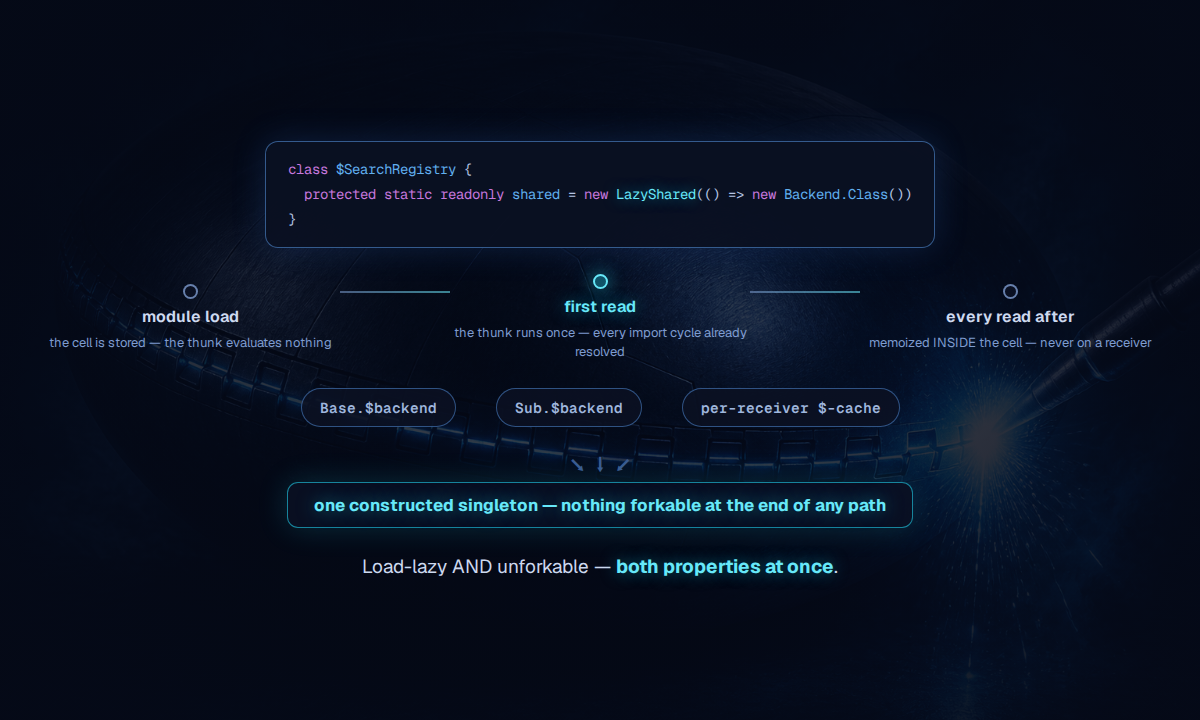
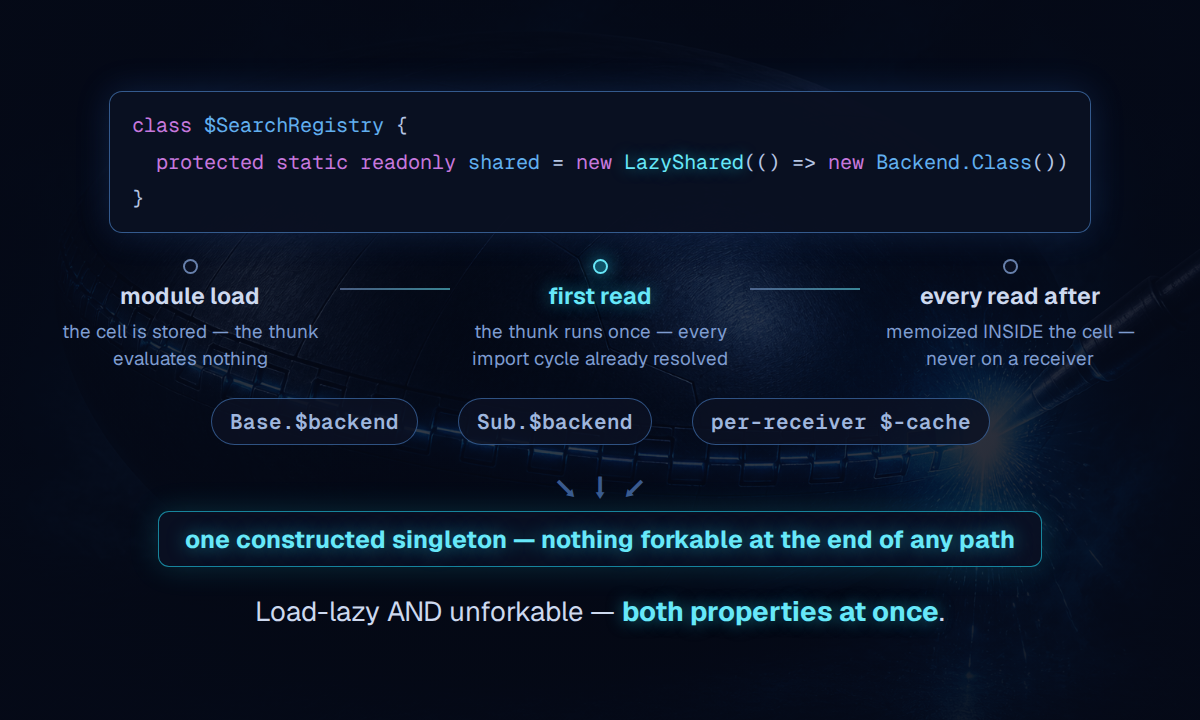
diagrams: all text ~1.45x larger — readable at article width
The six hybrid diagrams were authored at 1200px but display at ~688px
in articles, rendering 13px source text near 7.5px. Every font scaled
up ~1.45x, circular-imports' module boxes widened to fit the larger
code; backdrops carry less, text carries more. All six re-rendered
and re-verified.

diff --git a/.claude/skills/article-art/diagrams/circular-imports-dissolved-diagram-1.html b/.claude/skills/article-art/diagrams/circular-imports-dissolved-diagram-1.html
@@ -35,25 +35,25 @@
     position: absolute; inset: 0;
     display: flex; flex-direction: column;
     align-items: center; justify-content: center;
-    gap: 30px; padding: 40px 70px;
+    gap: 30px; padding: 40px 40px;
   }
 
-  .cycle { display: flex; align-items: center; gap: 26px; }
+  .cycle { display: flex; align-items: center; gap: 18px; }
   .module {
-    width: 330px; border-radius: 13px;
+    width: 472px; border-radius: 13px;
     border: 1px solid rgba(96, 165, 250, 0.5);
     background: rgba(10, 16, 34, 0.9);
     box-shadow: 0 0 34px rgba(59, 130, 246, 0.18);
     overflow: hidden;
   }
   .module .bar {
-    padding: 9px 16px; font: 600 14px 'Geist Mono', monospace; color: #9fb6dd;
+    padding: 9px 16px; font: 600 20.3px 'Geist Mono', monospace; color: #9fb6dd;
     background: rgba(30, 41, 70, 0.85);
     border-bottom: 1px solid rgba(96, 165, 250, 0.28);
   }
   .module .code {
     padding: 13px 16px 15px;
-    font: 13.5px/1.75 'Geist Mono', 'DejaVu Sans Mono', monospace;
+    font: 19.57px/1.75 'Geist Mono', 'DejaVu Sans Mono', monospace;
     color: #b6c6e4; white-space: pre;
   }
   .module .code .kw { color: #c678dd; }
@@ -62,12 +62,12 @@
 
   .arrows {
     display: flex; flex-direction: column; gap: 15px; align-items: center;
-    font: 600 15px 'Geist Mono', monospace;
+    font: 600 21.75px 'Geist Mono', monospace;
   }
   .arrow { display: flex; flex-direction: column; align-items: center; gap: 3px; }
-  .arrow .line { font-size: 24px; letter-spacing: -1px; }
+  .arrow .line { font-size: 34.8px; letter-spacing: -1px; }
   .arrow.import .line { color: #7e9cd0; }
-  .arrow.import .tag { color: #7e9cd0; font-size: 12.5px; }
+  .arrow.import .tag { color: #7e9cd0; font-size: 18.12px; }
 
   .timeline {
     display: flex; align-items: center; gap: 0;
@@ -86,16 +86,16 @@
     border-color: #67e8f9; background: rgba(34, 211, 238, 0.35);
     box-shadow: 0 0 18px rgba(34, 211, 238, 0.7);
   }
-  .phase .label { font-size: 16px; font-weight: 650; color: #cdd9ef; }
+  .phase .label { font-size: 23.2px; font-weight: 650; color: #cdd9ef; }
   .phase.hot .label { color: #67e8f9; text-shadow: 0 0 16px rgba(34, 211, 238, 0.5); }
-  .phase .note { font-size: 13px; color: #7e9cd0; line-height: 1.45; }
+  .phase .note { font-size: 18.85px; color: #7e9cd0; line-height: 1.45; }
   .rail {
     width: 120px; height: 2px; margin-bottom: 52px;
     background: linear-gradient(90deg, rgba(126, 156, 208, 0.55), rgba(103, 232, 249, 0.55));
   }
 
   .verdict {
-    font-size: 19px; color: #cdd9ef;
+    font-size: 27.55px; color: #cdd9ef;
   }
   .verdict b { color: #67e8f9; font-weight: 700; text-shadow: 0 0 16px rgba(34, 211, 238, 0.5); }
 </style>

diff --git a/.claude/skills/article-art/diagrams/bulletproof-class-modules-diagram-1.html b/.claude/skills/article-art/diagrams/bulletproof-class-modules-diagram-1.html
@@ -43,7 +43,7 @@
     background: rgba(10, 16, 34, 0.92);
     box-shadow: 0 0 34px rgba(59, 130, 246, 0.18);
     padding: 15px 22px;
-    font: 14px/1.8 'Geist Mono', 'DejaVu Sans Mono', monospace;
+    font: 20.3px/1.8 'Geist Mono', 'DejaVu Sans Mono', monospace;
     color: #b6c6e4; white-space: pre;
   }
   .cell .kw { color: #c678dd; }
@@ -54,17 +54,17 @@
   .reader {
     padding: 9px 18px; border-radius: 999px;
     border: 1px solid rgba(96, 165, 250, 0.45); color: #9fb6dd;
-    font: 600 14.5px 'Geist Mono', monospace;
+    font: 600 21.02px 'Geist Mono', monospace;
     background: rgba(10, 16, 34, 0.85);
   }
   .converge {
     display: flex; flex-direction: column; align-items: center; gap: 5px;
   }
-  .converge .down { color: #3b5a8f; font-size: 24px; line-height: 1; }
+  .converge .down { color: #3b5a8f; font-size: 34.8px; line-height: 1; }
   .one {
     padding: 11px 26px; border-radius: 11px;
     border: 1px solid rgba(34, 211, 238, 0.6);
-    color: #67e8f9; font: 700 17px 'Geist', sans-serif;
+    color: #67e8f9; font: 700 24.65px 'Geist', sans-serif;
     text-shadow: 0 0 18px rgba(34, 211, 238, 0.55);
     box-shadow: 0 0 30px rgba(34, 211, 238, 0.18);
     background: rgba(10, 16, 34, 0.9);
@@ -83,14 +83,14 @@
     border-color: #67e8f9; background: rgba(34, 211, 238, 0.35);
     box-shadow: 0 0 18px rgba(34, 211, 238, 0.7);
   }
-  .phase .label { font-size: 16px; font-weight: 650; color: #cdd9ef; }
+  .phase .label { font-size: 23.2px; font-weight: 650; color: #cdd9ef; }
   .phase.hot .label { color: #67e8f9; text-shadow: 0 0 16px rgba(34, 211, 238, 0.5); }
-  .phase .note { font-size: 13px; color: #7e9cd0; line-height: 1.45; }
+  .phase .note { font-size: 18.85px; color: #7e9cd0; line-height: 1.45; }
   .rail {
     width: 110px; height: 2px; margin-bottom: 52px;
     background: linear-gradient(90deg, rgba(126, 156, 208, 0.55), rgba(103, 232, 249, 0.55));
   }
-  .verdict { font-size: 19px; color: #cdd9ef; }
+  .verdict { font-size: 27.55px; color: #cdd9ef; }
   .verdict b { color: #67e8f9; font-weight: 700; text-shadow: 0 0 16px rgba(34, 211, 238, 0.5); }
 </style>
 </head>

diff --git a/.claude/skills/article-art/diagrams/what-javascript-becomes-diagram-1.html b/.claude/skills/article-art/diagrams/what-javascript-becomes-diagram-1.html
@@ -45,15 +45,15 @@
     padding: 13px 16px 14px;
   }
   .source .who {
-    font: 650 14.5px 'Geist Mono', monospace; color: #9fb6dd;
+    font: 650 21.02px 'Geist Mono', monospace; color: #9fb6dd;
     margin-bottom: 5px;
   }
-  .source .what { font-size: 13.5px; color: #b6c6e4; line-height: 1.5; }
-  .source .how { font-size: 12px; color: #7e9cd0; margin-top: 6px; font-style: italic; }
+  .source .what { font-size: 19.57px; color: #b6c6e4; line-height: 1.5; }
+  .source .how { font-size: 17.4px; color: #7e9cd0; margin-top: 6px; font-style: italic; }
   .converge {
     display: flex; flex-direction: column; align-items: center; gap: 4px;
   }
-  .converge .arrows { color: #3b5a8f; font-size: 24px; letter-spacing: 26px; padding-left: 26px; line-height: 1; }
+  .converge .arrows { color: #3b5a8f; font-size: 34.8px; letter-spacing: 26px; padding-left: 26px; line-height: 1; }
   .runtime {
     width: 760px; border-radius: 14px;
     border: 1px solid rgba(34, 211, 238, 0.55);
@@ -62,17 +62,17 @@
     padding: 16px 26px 18px; text-align: center;
   }
   .runtime .title {
-    font: 700 18px 'Geist', sans-serif; color: #67e8f9;
+    font: 700 26.1px 'Geist', sans-serif; color: #67e8f9;
     text-shadow: 0 0 16px rgba(34, 211, 238, 0.5); margin-bottom: 8px;
   }
   .runtime .chips { display: flex; gap: 10px; justify-content: center; flex-wrap: wrap; }
   .runtime .chip {
     padding: 7px 13px; border-radius: 999px;
     border: 1px solid rgba(34, 211, 238, 0.4); color: #8fe9f7;
-    font: 600 13px 'Geist Mono', monospace;
+    font: 600 18.85px 'Geist Mono', monospace;
     background: rgba(14, 24, 48, 0.8);
   }
-  .verdict { font-size: 19px; color: #cdd9ef; text-align: center; }
+  .verdict { font-size: 27.55px; color: #cdd9ef; text-align: center; }
   .verdict b { color: #67e8f9; font-weight: 700; text-shadow: 0 0 16px rgba(34, 211, 238, 0.5); }
 </style>
 </head>

diff --git a/.claude/skills/article-art/diagrams/reactivity-is-an-allocator-diagram-1.html b/.claude/skills/article-art/diagrams/reactivity-is-an-allocator-diagram-1.html
@@ -43,9 +43,9 @@
     padding: 16px 24px 18px;
   }
   .tier .title {
-    font: 700 16px 'Geist', sans-serif; margin-bottom: 4px;
+    font: 700 23.2px 'Geist', sans-serif; margin-bottom: 4px;
   }
-  .tier .sub { font-size: 13.5px; color: #7e9cd0; margin-bottom: 13px; }
+  .tier .sub { font-size: 19.57px; color: #7e9cd0; margin-bottom: 13px; }
   .tier.graph {
     border: 1px solid rgba(34, 211, 238, 0.55);
     box-shadow: 0 0 34px rgba(34, 211, 238, 0.14);
@@ -56,7 +56,7 @@
   .chips { display: flex; gap: 12px; flex-wrap: wrap; }
   .chip {
     padding: 8px 15px; border-radius: 999px;
-    font: 600 13.5px 'Geist Mono', monospace;
+    font: 600 19.57px 'Geist Mono', monospace;
   }
   .graph .chip {
     border: 1px solid rgba(34, 211, 238, 0.45); color: #8fe9f7;
@@ -68,12 +68,12 @@
   }
   .threads {
     display: flex; gap: 200px; align-items: center;
-    font: 600 13.5px 'Geist Mono', monospace;
+    font: 600 19.57px 'Geist Mono', monospace;
   }
   .thread { display: flex; flex-direction: column; align-items: center; gap: 1px; }
-  .thread .arrow { color: #67e8f9; font-size: 22px; line-height: 1; text-shadow: 0 0 12px rgba(34,211,238,0.6); }
+  .thread .arrow { color: #67e8f9; font-size: 31.9px; line-height: 1; text-shadow: 0 0 12px rgba(34,211,238,0.6); }
   .thread .tag { color: #7e9cd0; }
-  .verdict { font-size: 19px; color: #cdd9ef; text-align: center; }
+  .verdict { font-size: 27.55px; color: #cdd9ef; text-align: center; }
   .verdict b { color: #67e8f9; font-weight: 700; text-shadow: 0 0 16px rgba(34, 211, 238, 0.5); }
 </style>
 </head>

diff --git a/.claude/skills/article-art/diagrams/module-level-state-diagram-1.html b/.claude/skills/article-art/diagrams/module-level-state-diagram-1.html
@@ -49,7 +49,7 @@
     box-shadow: 0 0 34px rgba(34, 211, 238, 0.14);
   }
   .container .head {
-    padding: 11px 20px; font: 650 16px 'Geist Mono', monospace;
+    padding: 11px 20px; font: 650 23.2px 'Geist Mono', monospace;
     border-bottom: 1px solid rgba(96, 165, 250, 0.25);
     background: rgba(30, 41, 70, 0.7);
   }
@@ -57,14 +57,14 @@
   .container.klass .head { color: #67e8f9; text-shadow: 0 0 14px rgba(34, 211, 238, 0.5); }
   .row {
     display: flex; justify-content: space-between; align-items: center;
-    padding: 10px 20px; font-size: 15px; color: #b6c6e4;
+    padding: 10px 20px; font-size: 21.75px; color: #b6c6e4;
     border-bottom: 1px solid rgba(40, 50, 78, 0.6);
   }
   .row:last-child { border-bottom: none; }
   .no { color: #f87171; font-weight: 700; }
   .yes { color: #67e8f9; font-weight: 700; text-shadow: 0 0 12px rgba(34, 211, 238, 0.5); }
-  .dim { color: #7e9cd0; font-size: 13px; }
-  .verdict { font-size: 19px; color: #cdd9ef; text-align: center; line-height: 1.5; }
+  .dim { color: #7e9cd0; font-size: 18.85px; }
+  .verdict { font-size: 27.55px; color: #cdd9ef; text-align: center; line-height: 1.5; }
   .verdict b { color: #67e8f9; font-weight: 700; text-shadow: 0 0 16px rgba(34, 211, 238, 0.5); }
 </style>
 </head>

diff --git a/.claude/skills/article-art/diagrams/agents-built-an-editor-diagram-1.html b/.claude/skills/article-art/diagrams/agents-built-an-editor-diagram-1.html
@@ -43,8 +43,8 @@
     border-radius: 12px; padding: 13px 14px; width: 202px;
     background: rgba(10, 16, 34, 0.92); text-align: center;
   }
-  .box .t { font: 700 15px 'Geist', sans-serif; }
-  .box .d { font-size: 12.5px; color: #7e9cd0; line-height: 1.5; }
+  .box .t { font: 700 21.75px 'Geist', sans-serif; }
+  .box .d { font-size: 18.12px; color: #7e9cd0; line-height: 1.5; }
   .box.stream { border: 1px solid rgba(126, 156, 208, 0.4); }
   .box.stream .t { color: #9fb6dd; }
   .gate {
@@ -57,13 +57,13 @@
     box-shadow: 0 0 30px rgba(34, 211, 238, 0.18);
   }
   .box.merged .t { color: #67e8f9; text-shadow: 0 0 14px rgba(34, 211, 238, 0.55); }
-  .step { align-self: center; color: #3b5a8f; font-size: 20px; }
+  .step { align-self: center; color: #3b5a8f; font-size: 29px; }
   .rejects {
-    font: 600 13.5px 'Geist Mono', monospace; color: #f87171;
+    font: 600 19.57px 'Geist Mono', monospace; color: #f87171;
     display: flex; gap: 56px;
   }
   .rejects span { opacity: 0.85; }
-  .verdict { font-size: 19px; color: #cdd9ef; text-align: center; }
+  .verdict { font-size: 27.55px; color: #cdd9ef; text-align: center; }
   .verdict b { color: #67e8f9; font-weight: 700; text-shadow: 0 0 16px rgba(34, 211, 238, 0.5); }
 </style>
 </head>
